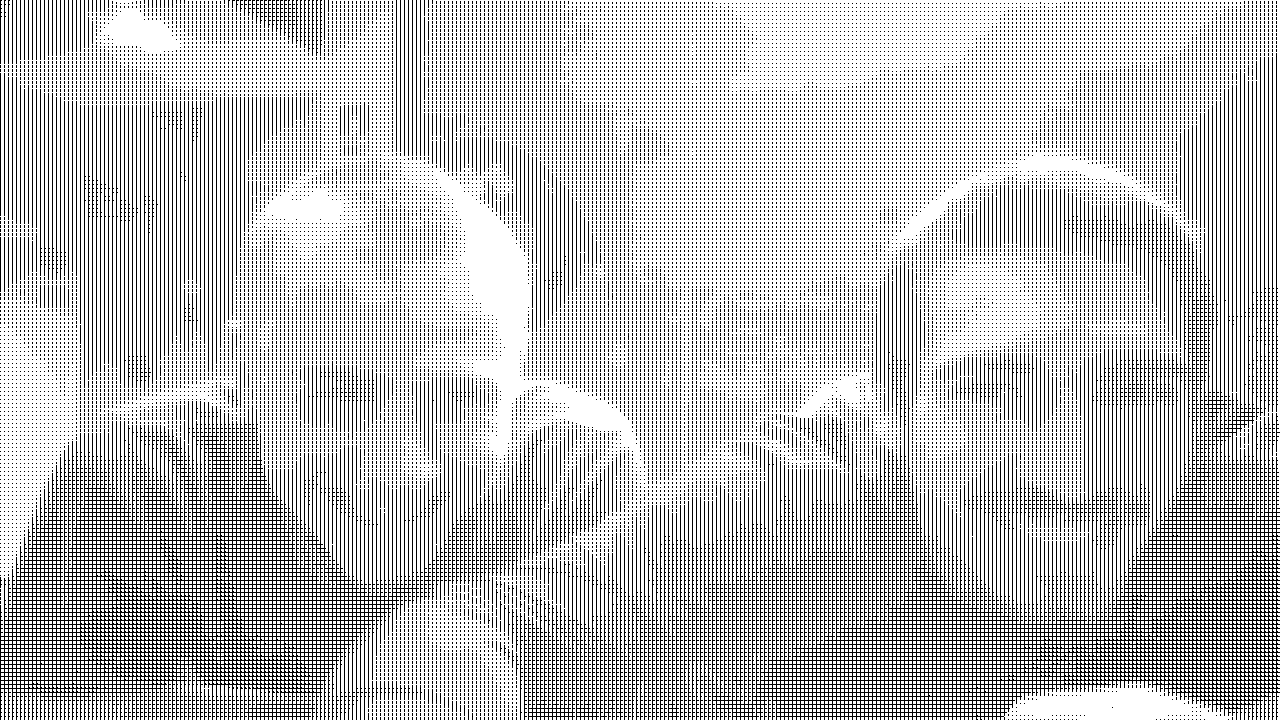
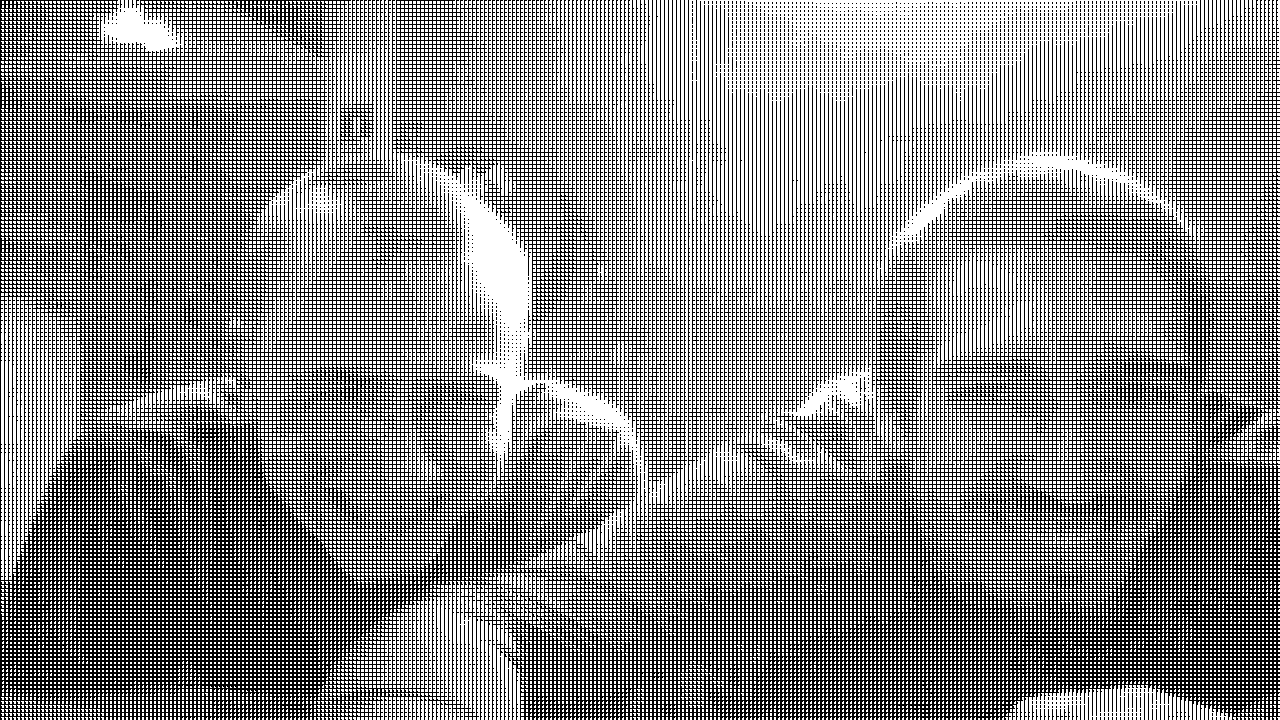
floyd-steinberg working

Changed region(s): [[0.0, 0.0, 1.0, 1.0]]

diff --git a/src/Trame.java b/src/Trame.java
@@ -93,7 +93,7 @@ public class Trame {
 	}
 
 
-	BufferedImage traming(BufferedImage src, boolean floydSteinberg) {
+	BufferedImage traming(BufferedImage src) {
 		ColorModel cm = src.getColorModel();
 		boolean isAlphaPremultiplied = cm.isAlphaPremultiplied();
 		WritableRaster raster = src.copyData(null);
@@ -113,48 +113,11 @@ public class Trame {
 					}
 				}
 				image.setRGB(width * i, height * j, width, height, patterns[tot / (height * width * width * height)], 0, width);
-				if(floydSteinberg) {
-					for (int x = 0; x < width; x++) {
-						for (int y = 0; y < height; y++) {
-							int srcPix = src.getRGB(width * i + x, height * j + y);
-							int tramedPix = image.getRGB(width * i + x, height * j + y);
-							int erreur = srcPix - tramedPix;
-							if(width * (i + 1) + x < src.getWidth() && width * (i - 1) + x > 0 && height * (j + 1) + y < src.getHeight() && height * j + y > 0) {
-								image.setRGB(width * (i + 1) + x, height * j + y, image.getRGB( width * (i + 1) + x, height * j + y) + 7/16 * erreur);
-								image.setRGB(width * (i - 1) + x, height * (j + 1) + y, image.getRGB( width * (i - 1) + x, height * (j + 1) + y) + 3/16 * erreur);
-								image.setRGB(width * i + x, height * (j + 1) + y, image.getRGB( width * i + x, height * (j + 1) + y) + 5/16 * erreur);
-								image.setRGB(width * (i + 1) + x, height * (j + 1) + y, image.getRGB( width * (i + 1) + x, height * (j + 1) + y) + 1/16 * erreur);
-							}
-
-						}
-					}
-
-				}
 			}
 
 		return image;
 	}
 
-	BufferedImage floydSteinberg(BufferedImage src, BufferedImage tramed) {
-
-		int t_x = tramed.getWidth() - tramed.getWidth() % width;
-		int t_y = tramed.getHeight() - tramed.getHeight() % height;
-
-		for (int i = 1; i < t_x - 1; i++)
-			for (int j = 1; j < t_y - 1; j++) {
-				int srcPix = src.getRGB(i, j);
-				int tramedPix = tramed.getRGB(i, j);
-				int erreur = srcPix - tramedPix;
-				System.out.println("erreur : " + erreur);
-				tramed.setRGB(i + 1, j, tramed.getRGB(i + 1, j) + 7/16 * erreur);
-				tramed.setRGB(i - 1, j + 1, tramed.getRGB(i - 1, j + 1) + 3/16 * erreur);
-				tramed.setRGB(i, j + 1, tramed.getRGB(i, j + 1) + 5/16 * erreur);
-				tramed.setRGB(i + 1, j + 1, tramed.getRGB(i + 1, j + 1) + 1/16 * erreur);
-			}
-
-		return tramed;
-
-	}
 
 	public static int[] gen_matrix(int centre) {
 		// centre correspond à l'indice du centre
@@ -282,21 +245,19 @@ public class Trame {
 		int m[] = gen_centered_matrix(4, 2, 2, true);
 
 		Trame t = new Trame(4, 4, m);
-		//for (int i = 1; i < 8; i++) {
-		int i = 5;
+		for (int i = 1; i < 8; i++) {
 		String path = "images/image" + i + ".png";
 		File input_file = new File(path);
 		try {
 			BufferedImage image = ImageIO.read(input_file);
 			//BufferedImage n = t.randomTraming(image);
-			BufferedImage n = t.traming(image, false);
-			n = t.floydSteinberg(image, n); 
+			BufferedImage n = t.traming(image);
 
 			File reduced = new File("output/trame/gen-trame" + i + ".png");
 			ImageIO.write(n, "png", reduced);
 		} catch (Exception e) {
 			e.printStackTrace();
 		}
-		//}
+		}
 	}
 }

diff --git a/src/FloydSteinberg.java b/src/FloydSteinberg.java
@@ -1,0 +1,81 @@
+import java.awt.Color;
+
+import java.awt.image.BufferedImage;
+import java.awt.image.ColorModel;
+import java.awt.image.WritableRaster;
+import java.io.File;
+
+import javax.imageio.ImageIO;
+
+import java.util.Random;
+
+public class FloydSteinberg {
+
+	public static BufferedImage dither(BufferedImage originalImage) {
+		int width = originalImage.getWidth();
+		int height = originalImage.getHeight();
+
+		BufferedImage ditheredImage = new BufferedImage(width, height, BufferedImage.TYPE_INT_RGB);
+
+		int[][] pixels = new int[width][height];
+		// Copie des pixels de l'image originale dans un tableau
+		for (int y = 0; y < height; y++) {
+			for (int x = 0; x < width; x++) {
+				pixels[x][y] = originalImage.getRGB(x, y) & 0xFF;
+			}
+		}
+
+		// Algorithme de diffusion d'erreur de Floyd-Steinberg
+		for (int y = 0; y < height; y++) {
+			for (int x = 0; x < width; x++) {
+				int oldPixel = pixels[x][y];
+
+				//int white = 0xFFFFFF;
+				int black = 0;
+				int white = 255;
+
+				int newPixel = oldPixel >= 128 ? white : black; // Convertir en noir et blanc
+				ditheredImage.setRGB(x, y, new Color(newPixel, newPixel, newPixel).getRGB());
+
+				int error = oldPixel - newPixel;
+				if (x + 1 < width)
+					distributeError(pixels, x + 1, y, 7.0 / 16, error);
+				if (x - 1 >= 0 && y + 1 < height)
+					distributeError(pixels, x - 1, y + 1, 3.0 / 16, error);
+				if (y + 1 < height)
+					distributeError(pixels, x, y + 1, 5.0 / 16, error);
+				if (x + 1 < width && y + 1 < height)
+					distributeError(pixels, x + 1, y + 1, 1.0 / 16, error);
+			}
+		}
+
+		return ditheredImage;
+	}
+
+	private static void distributeError(int[][] pixels, int x, int y, double coefficient, int error) {
+		int oldPixel = pixels[x][y];
+		int newPixel = (int) (oldPixel + error * coefficient);
+		pixels[x][y] = newPixel;
+	}
+
+	// Exemple d'utilisation
+	public static void main(String[] args) {
+		
+		for(int i = 0; i < 10; i++) {
+			String path = "images/image" + i + ".png";
+			File input_file = new File(path);
+			try {
+
+				BufferedImage image = ImageIO.read(input_file);
+
+				BufferedImage ditheredImage = dither(image);
+				File reduced = new File("output/floyd/gen-trame" + i + ".png");
+				ImageIO.write(ditheredImage, "png", reduced);
+			} catch (Exception e) {
+				e.printStackTrace();
+			}
+		}
+
+	}
+}
+
